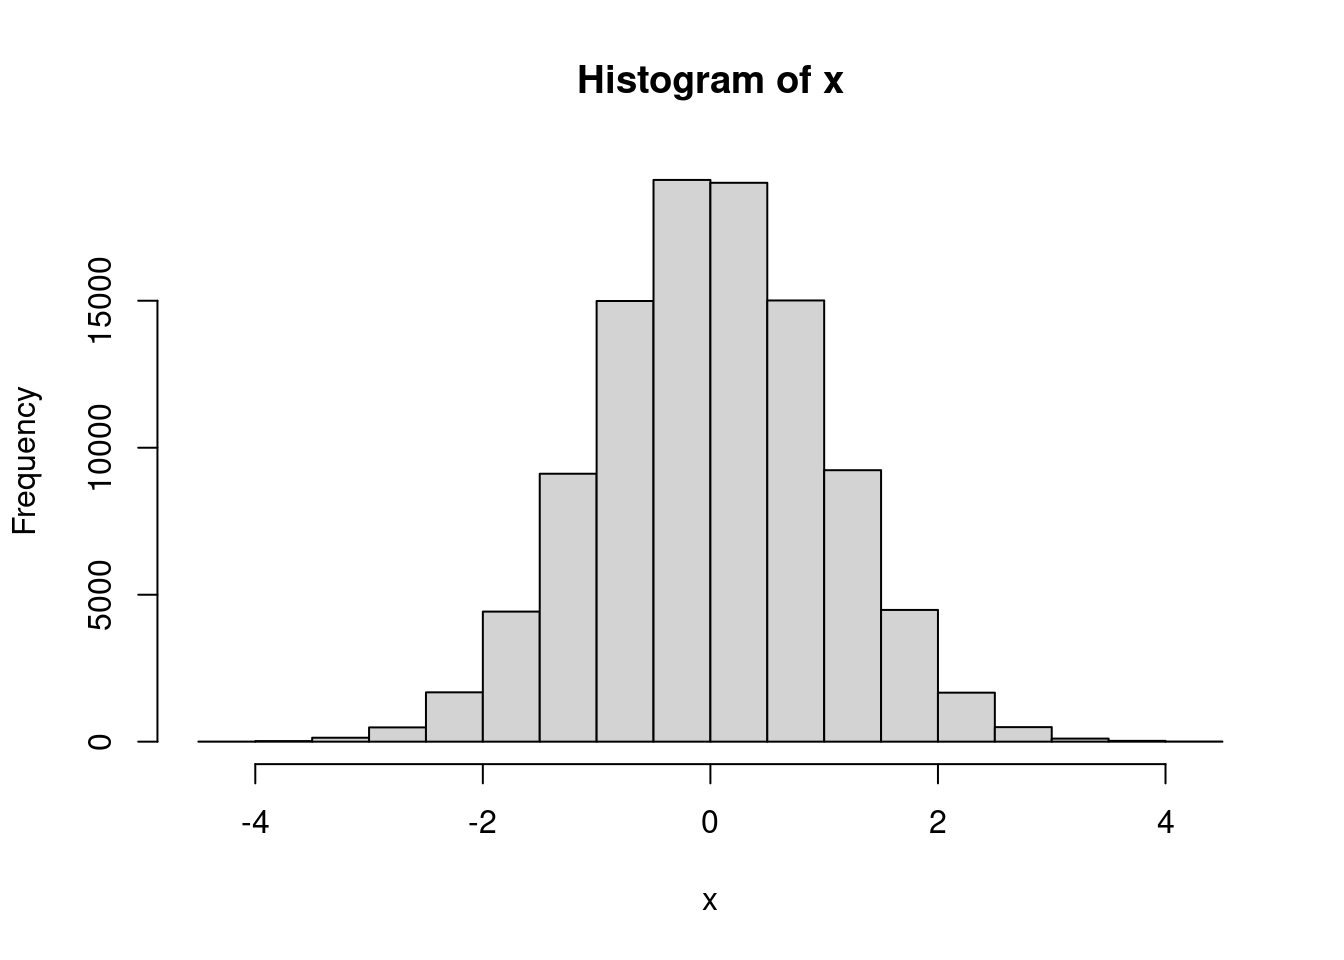
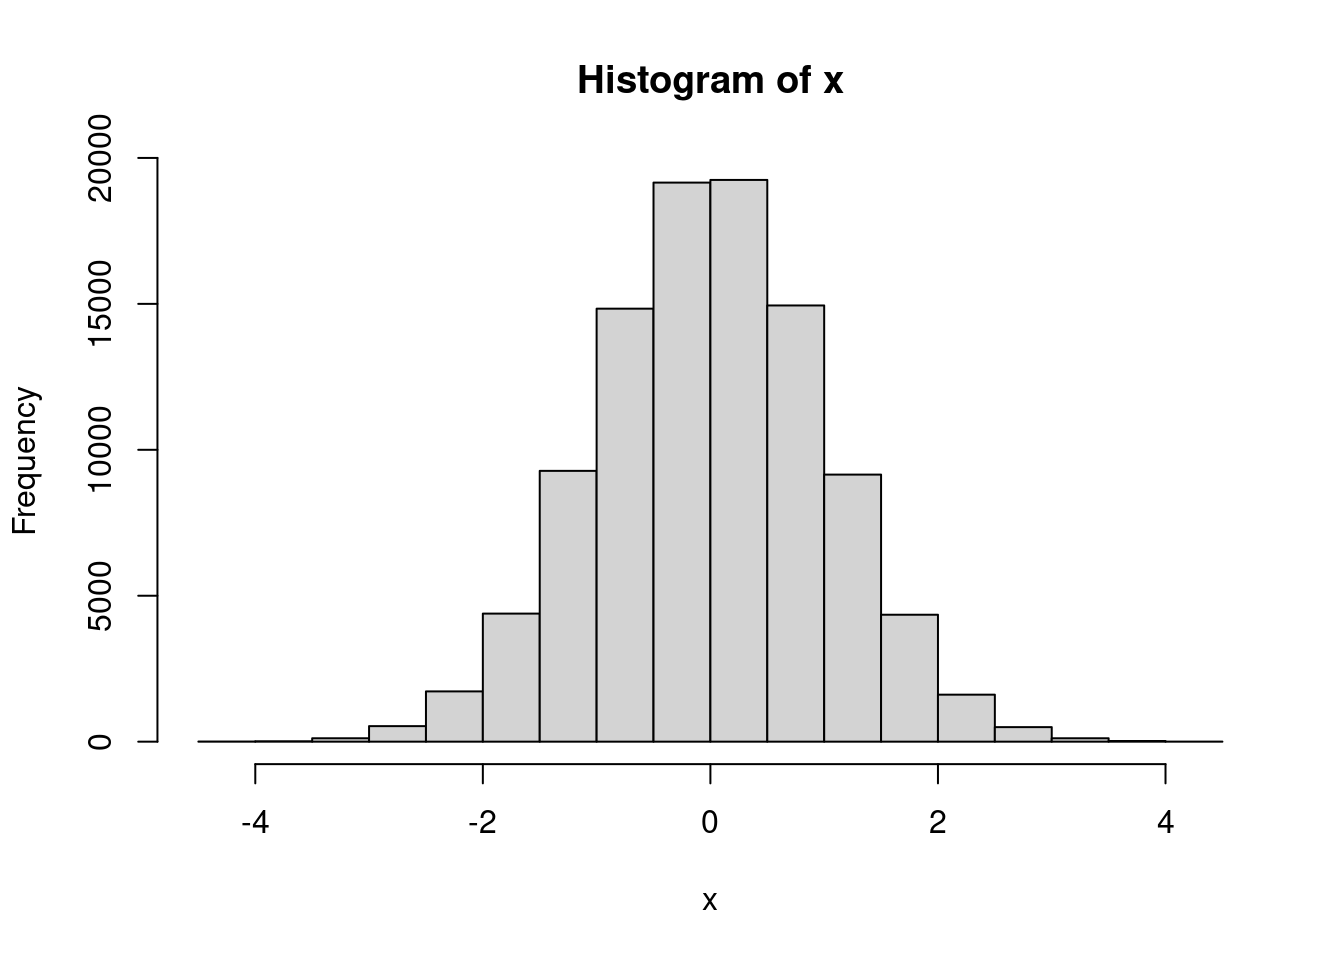
Deploying to gh-pages from @ tidyverse/design@621d5f4576dbe8e8a78765aee6121ed615087328 🚀

diff --git a/spooky-action.html b/spooky-action.html
@@ -521,7 +521,7 @@ pre > code.sourceCode > span > a:first-child::before { text-decoration: underlin
 <span>  <span class="fu">lubridate</span><span class="fu">::</span><span class="fu"><a href="https://lubridate.tidyverse.org/reference/now.html">now</a></span><span class="op">(</span><span class="op">)</span></span>
 <span><span class="op">}</span></span>
 <span><span class="fu">current_time</span><span class="op">(</span><span class="op">)</span></span>
-<span><span class="co">#&gt; [1] "2023-07-28 14:10:27 UTC"</span></span></code><button title="Copy to Clipboard" class="code-copy-button"><i class="bi"></i></button></pre></div>
+<span><span class="co">#&gt; [1] "2023-07-28 15:26:45 UTC"</span></span></code><button title="Copy to Clipboard" class="code-copy-button"><i class="bi"></i></button></pre></div>
 </div>
 </section><section id="ask-for-confirmation" class="level3" data-number="31.3.3"><h3 data-number="31.3.3" class="anchored" data-anchor-id="ask-for-confirmation">
 <span class="header-section-number">31.3.3</span> Ask for confirmation</h3>
@@ -672,8 +672,8 @@ pre > code.sourceCode > span > a:first-child::before { text-decoration: underlin
 <span></span>
 <span><span class="fu"><a href="https://rdrr.io/r/base/cbind.html">rbind</a></span><span class="op">(</span><span class="va">x</span>, <span class="va">out</span><span class="op">)</span></span>
 <span><span class="co">#&gt;     [,1] [,2] [,3] [,4] [,5] [,6] [,7] [,8] [,9] [,10]</span></span>
-<span><span class="co">#&gt; x     11   11   10   11    9   12    8    8    7     9</span></span>
-<span><span class="co">#&gt; out   11   22   32   43   52   64   72   80   87    96</span></span></code><button title="Copy to Clipboard" class="code-copy-button"><i class="bi"></i></button></pre></div>
+<span><span class="co">#&gt; x      9    9    2   11    8    5   13    9   11     8</span></span>
+<span><span class="co">#&gt; out    9   18   20   31   39   44   57   66   77    85</span></span></code><button title="Copy to Clipboard" class="code-copy-button"><i class="bi"></i></button></pre></div>
 </div>
 <p>A simple transformation from to use <code><a href="https://purrr.tidyverse.org/reference/map.html">map()</a></code> doesn’t work:</p>
 <div class="cell">
@@ -686,7 +686,7 @@ pre > code.sourceCode > span > a:first-child::before { text-decoration: underlin
 <span>    <span class="va">out</span><span class="op">[[</span><span class="va">i</span><span class="op">]</span><span class="op">]</span> <span class="op">&lt;-</span> <span class="va">x</span><span class="op">[[</span><span class="va">i</span><span class="op">]</span><span class="op">]</span> <span class="op">+</span> <span class="va">out</span><span class="op">[[</span><span class="va">i</span> <span class="op">-</span> <span class="fl">1</span><span class="op">]</span><span class="op">]</span></span>
 <span>  <span class="op">}</span></span>
 <span><span class="op">}</span><span class="op">)</span></span>
-<span><span class="co">#&gt;  [1] 11 11 10 11  9 12  8  8  7  9</span></span></code><button title="Copy to Clipboard" class="code-copy-button"><i class="bi"></i></button></pre></div>
+<span><span class="co">#&gt;  [1]  9  9  2 11  8  5 13  9 11  8</span></span></code><button title="Copy to Clipboard" class="code-copy-button"><i class="bi"></i></button></pre></div>
 </div>
 <p>Because the modification of <code>out</code> is happening inside of a function, R creates a copy of <code>out</code> (this is called <a href="https://adv-r.hadley.nz/names-values.html#copy-on-modify">copy-on-modify principle</a>). Instead we need to use <code>&lt;&lt;-</code> to reach outside of the function to modify the outer <code>out</code>:</p>
 <div class="cell">
@@ -697,7 +697,7 @@ pre > code.sourceCode > span > a:first-child::before { text-decoration: underlin
 <span>    <span class="va">out</span><span class="op">[[</span><span class="va">i</span><span class="op">]</span><span class="op">]</span> <span class="op">&lt;&lt;-</span> <span class="va">x</span><span class="op">[[</span><span class="va">i</span><span class="op">]</span><span class="op">]</span> <span class="op">+</span> <span class="va">out</span><span class="op">[[</span><span class="va">i</span> <span class="op">-</span> <span class="fl">1</span><span class="op">]</span><span class="op">]</span></span>
 <span>  <span class="op">}</span></span>
 <span><span class="op">}</span><span class="op">)</span></span>
-<span><span class="co">#&gt;  [1] 11 22 32 43 52 64 72 80 87 96</span></span></code><button title="Copy to Clipboard" class="code-copy-button"><i class="bi"></i></button></pre></div>
+<span><span class="co">#&gt;  [1]  9 18 20 31 39 44 57 66 77 85</span></span></code><button title="Copy to Clipboard" class="code-copy-button"><i class="bi"></i></button></pre></div>
 </div>
 <p>This use of <code>&lt;&lt;-</code> is a spooky action because we’re reaching up the tree of environments to modify an object created outside of the function. In this case, however, there’s no point in using <code><a href="https://purrr.tidyverse.org/reference/map.html">map()</a></code>: the point of those functions is to restrict what you can do compared to a for loop so that your code is easier to understand. <a href="https://r4ds.had.co.nz/iteration.html#for-loop-variations">R for data science</a> has other examples of for loops that <em>could</em> be rewritten with <code><a href="https://purrr.tidyverse.org/reference/map.html">map()</a></code>, but shouldn’t be.</p>
 <p>Note that we could still wrap this code into a function to eliminate the spooky action:</p>

diff --git a/out-invisible.html b/out-invisible.html
@@ -513,20 +513,20 @@ pre > code.sourceCode > span > a:first-child::before { text-decoration: underlin
 <span>  <span class="fu"><a href="https://fs.r-lib.org/reference/path.html">path</a></span><span class="op">(</span><span class="va">letters</span><span class="op">[</span><span class="fl">1</span><span class="op">:</span><span class="fl">5</span><span class="op">]</span><span class="op">)</span> <span class="op"><a href="https://magrittr.tidyverse.org/reference/pipe.html">%&gt;%</a></span></span>
 <span>  <span class="fu"><a href="https://fs.r-lib.org/reference/create.html">file_create</a></span><span class="op">(</span><span class="op">)</span></span>
 <span><span class="va">paths</span></span>
-<span><span class="co">#&gt; /tmp/RtmpRG3LkL/file1c204eb25b46/a /tmp/RtmpRG3LkL/file1c204eb25b46/b </span></span>
-<span><span class="co">#&gt; /tmp/RtmpRG3LkL/file1c204eb25b46/c /tmp/RtmpRG3LkL/file1c204eb25b46/d </span></span>
-<span><span class="co">#&gt; /tmp/RtmpRG3LkL/file1c204eb25b46/e</span></span></code><button title="Copy to Clipboard" class="code-copy-button"><i class="bi"></i></button></pre></div>
+<span><span class="co">#&gt; /tmp/RtmpNRMDCw/file1c095f2c711a/a /tmp/RtmpNRMDCw/file1c095f2c711a/b </span></span>
+<span><span class="co">#&gt; /tmp/RtmpNRMDCw/file1c095f2c711a/c /tmp/RtmpNRMDCw/file1c095f2c711a/d </span></span>
+<span><span class="co">#&gt; /tmp/RtmpNRMDCw/file1c095f2c711a/e</span></span></code><button title="Copy to Clipboard" class="code-copy-button"><i class="bi"></i></button></pre></div>
 </div>
 <p>Functions that modify some global state, like <code><a href="https://rdrr.io/r/base/options.html">options()</a></code> or <code><a href="https://rdrr.io/r/graphics/par.html">par()</a></code>, should return the <em>previous</em> value of the variables. This, in combination with <a href="compound-arguments.html"><span>Chapter&nbsp;22</span></a>, makes it possible to easily reset the effect of the change:</p>
 <div class="cell">
 <div class="sourceCode" id="cb4"><pre class="downlit sourceCode r code-with-copy"><code class="sourceCode R"><span><span class="va">x</span> <span class="op">&lt;-</span> <span class="fu"><a href="https://rdrr.io/r/stats/Uniform.html">runif</a></span><span class="op">(</span><span class="fl">1</span><span class="op">)</span></span>
 <span><span class="va">old</span> <span class="op">&lt;-</span> <span class="fu"><a href="https://rdrr.io/r/base/options.html">options</a></span><span class="op">(</span>digits <span class="op">=</span> <span class="fl">3</span><span class="op">)</span></span>
 <span><span class="va">x</span></span>
-<span><span class="co">#&gt; [1] 0.589</span></span>
+<span><span class="co">#&gt; [1] 0.4</span></span>
 <span></span>
 <span><span class="fu"><a href="https://rdrr.io/r/base/options.html">options</a></span><span class="op">(</span><span class="va">old</span><span class="op">)</span></span>
 <span><span class="va">x</span></span>
-<span><span class="co">#&gt; [1] 0.5886905</span></span></code><button title="Copy to Clipboard" class="code-copy-button"><i class="bi"></i></button></pre></div>
+<span><span class="co">#&gt; [1] 0.3995698</span></span></code><button title="Copy to Clipboard" class="code-copy-button"><i class="bi"></i></button></pre></div>
 </div>
 
 

diff --git a/required-no-defaults.html b/required-no-defaults.html
@@ -475,9 +475,9 @@ pre > code.sourceCode > span > a:first-child::before { text-decoration: underlin
 <p>This suggests that <code>size</code> is required, but it’s actually optional:</p>
 <div class="cell">
 <div class="sourceCode" id="cb2"><pre class="downlit sourceCode r code-with-copy"><code class="sourceCode R"><span><span class="fu"><a href="https://rdrr.io/r/base/sample.html">sample</a></span><span class="op">(</span><span class="fl">1</span><span class="op">:</span><span class="fl">4</span><span class="op">)</span></span>
-<span><span class="co">#&gt; [1] 3 2 4 1</span></span>
+<span><span class="co">#&gt; [1] 2 3 4 1</span></span>
 <span><span class="fu"><a href="https://rdrr.io/r/base/sample.html">sample</a></span><span class="op">(</span><span class="fl">4</span><span class="op">)</span></span>
-<span><span class="co">#&gt; [1] 3 1 4 2</span></span></code><button title="Copy to Clipboard" class="code-copy-button"><i class="bi"></i></button></pre></div>
+<span><span class="co">#&gt; [1] 3 4 1 2</span></span></code><button title="Copy to Clipboard" class="code-copy-button"><i class="bi"></i></button></pre></div>
 </div>
 </li>
 <li>
@@ -500,7 +500,7 @@ pre > code.sourceCode > span > a:first-child::before { text-decoration: underlin
 <span><span class="co">#&gt; </span></span>
 <span><span class="co">#&gt; Coefficients:</span></span>
 <span><span class="co">#&gt; (Intercept)            x  </span></span>
-<span><span class="co">#&gt;       2.620        1.462</span></span></code><button title="Copy to Clipboard" class="code-copy-button"><i class="bi"></i></button></pre></div>
+<span><span class="co">#&gt;      0.7307       1.6761</span></span></code><button title="Copy to Clipboard" class="code-copy-button"><i class="bi"></i></button></pre></div>
 </div>
 </li>
 </ul>

diff --git a/changes-multivers.html b/changes-multivers.html
@@ -542,9 +542,9 @@ pre > code.sourceCode > span > a:first-child::before { text-decoration: underlin
 <span><span class="co">#&gt; # A tibble: 3 × 5</span></span>
 <span><span class="co">#&gt;   expression      min   median `itr/sec` mem_alloc</span></span>
 <span><span class="co">#&gt;   &lt;bch:expr&gt; &lt;bch:tm&gt; &lt;bch:tm&gt;     &lt;dbl&gt; &lt;bch:byt&gt;</span></span>
-<span><span class="co">#&gt; 1 version     376.3µs  387.4µs     2541.    4.01KB</span></span>
-<span><span class="co">#&gt; 2 exists        3.2µs    3.6µs   255353.    3.29MB</span></span>
-<span><span class="co">#&gt; 3 formals       1.4µs    1.6µs   512304.        0B</span></span></code><button title="Copy to Clipboard" class="code-copy-button"><i class="bi"></i></button></pre></div>
+<span><span class="co">#&gt; 1 version     492.1µs  506.9µs     1947.    4.01KB</span></span>
+<span><span class="co">#&gt; 2 exists        3.4µs    3.7µs   246834.    3.29MB</span></span>
+<span><span class="co">#&gt; 3 formals       1.5µs    1.6µs   508985.        0B</span></span></code><button title="Copy to Clipboard" class="code-copy-button"><i class="bi"></i></button></pre></div>
 </div>
 <p>If you do need to use <code><a href="https://rdrr.io/r/utils/packageDescription.html">packageVersion()</a></code> inside a performance sensitive function, I recommend caching the result in <code>.onLoad()</code> (which, by convention, lives in <code>zzz.R</code>). There a few ways to do this; but the following block shows one approach that matches the function interface I used above:</p>
 <div class="cell">

diff --git a/index.html b/index.html
@@ -451,7 +451,7 @@ ul.task-list li input[type="checkbox"] {
 <li><p>Discussing <strong>case studies</strong> that help you see how all the pieces fit together with real code.</p></li>
 </ul>
 <p>While I’ve called these principles “tidy” and they’re used extensively by the tidyverse team to promote consistency across our packages, they’re not exclusive to the tidyverse. Think tidy in the sense of tidy data (broadly useful regardless of what tool you’re using) not tidyverse (a collection of functions designed with a singular point of view in order to facilitate learning and use).</p>
-<p>This book will be under heavy development for quite some time; currently we are loosely aiming for completion in 2025. You’ll find many chapters contain disjointed text that mostly serve as placeholders for the authors, and I do not recommend attempting to systematically read the book at this time.</p>
+<p>This book will be under heavy development for quite some time; currently we are loosely aiming for completion in 2025. You’ll find many chapters contain disjointed text that mostly serve as placeholders for the authors, and I do not recommend attempting to systematically read the book at this time. If you’d like to follow along with my journey writing this book, and learn which chapters are ready to read, please sign up for my <a href="http://tidydesign.substack.com/">tid design substack mailing list</a>.</p>
 
 
 </section>

diff --git a/enumerate-options.html b/enumerate-options.html
@@ -514,7 +514,7 @@ pre > code.sourceCode > span > a:first-child::before { text-decoration: underlin
 <p>It also supports partial matching so that the following code is shorthand for `ties.method = “random”:</p>
 <div class="cell">
 <div class="sourceCode" id="cb3"><pre class="downlit sourceCode r code-with-copy"><code class="sourceCode R"><span><span class="fu"><a href="https://rdrr.io/r/base/rank.html">rank</a></span><span class="op">(</span><span class="va">x</span>, ties.method <span class="op">=</span> <span class="st">"r"</span><span class="op">)</span></span>
-<span><span class="co">#&gt; [1] 1 2 3 4 5 6</span></span></code><button title="Copy to Clipboard" class="code-copy-button"><i class="bi"></i></button></pre></div>
+<span><span class="co">#&gt; [1] 1 3 2 6 5 4</span></span></code><button title="Copy to Clipboard" class="code-copy-button"><i class="bi"></i></button></pre></div>
 </div>
 <p>I generally believe that partial matching is a bad idea, because it makes code harder to read. <code><a href="https://rlang.r-lib.org/reference/arg_match.html">rlang::arg_match()</a></code> is an alternative to <code>match.args()</code> that doesn’t support partial matching. Instead it provides a helpful error message:</p>
 <div class="cell">

diff --git a/side-effects.html b/side-effects.html
@@ -585,8 +585,8 @@ regression. This value is only computed when the summary is printed: you can see
 <span><span class="fu"><a href="https://rdrr.io/r/utils/str.html">str</a></span><span class="op">(</span><span class="va">xhist</span><span class="op">)</span></span>
 <span><span class="co">#&gt; List of 6</span></span>
 <span><span class="co">#&gt;  $ breaks  : num [1:19] -4.5 -4 -3.5 -3 -2.5 -2 -1.5 -1 -0.5 0 ...</span></span>
-<span><span class="co">#&gt;  $ counts  : int [1:18] 2 20 135 485 1678 4425 9114 14991 19110 19011 ...</span></span>
-<span><span class="co">#&gt;  $ density : num [1:18] 0.00004 0.0004 0.0027 0.0097 0.03356 ...</span></span>
+<span><span class="co">#&gt;  $ counts  : int [1:18] 5 15 117 534 1723 4388 9279 14835 19155 19247 ...</span></span>
+<span><span class="co">#&gt;  $ density : num [1:18] 0.0001 0.0003 0.00234 0.01068 0.03446 ...</span></span>
 <span><span class="co">#&gt;  $ mids    : num [1:18] -4.25 -3.75 -3.25 -2.75 -2.25 -1.75 -1.25 -0.75 -0.25 0.25 ...</span></span>
 <span><span class="co">#&gt;  $ xname   : chr "x"</span></span>
 <span><span class="co">#&gt;  $ equidist: logi TRUE</span></span>
